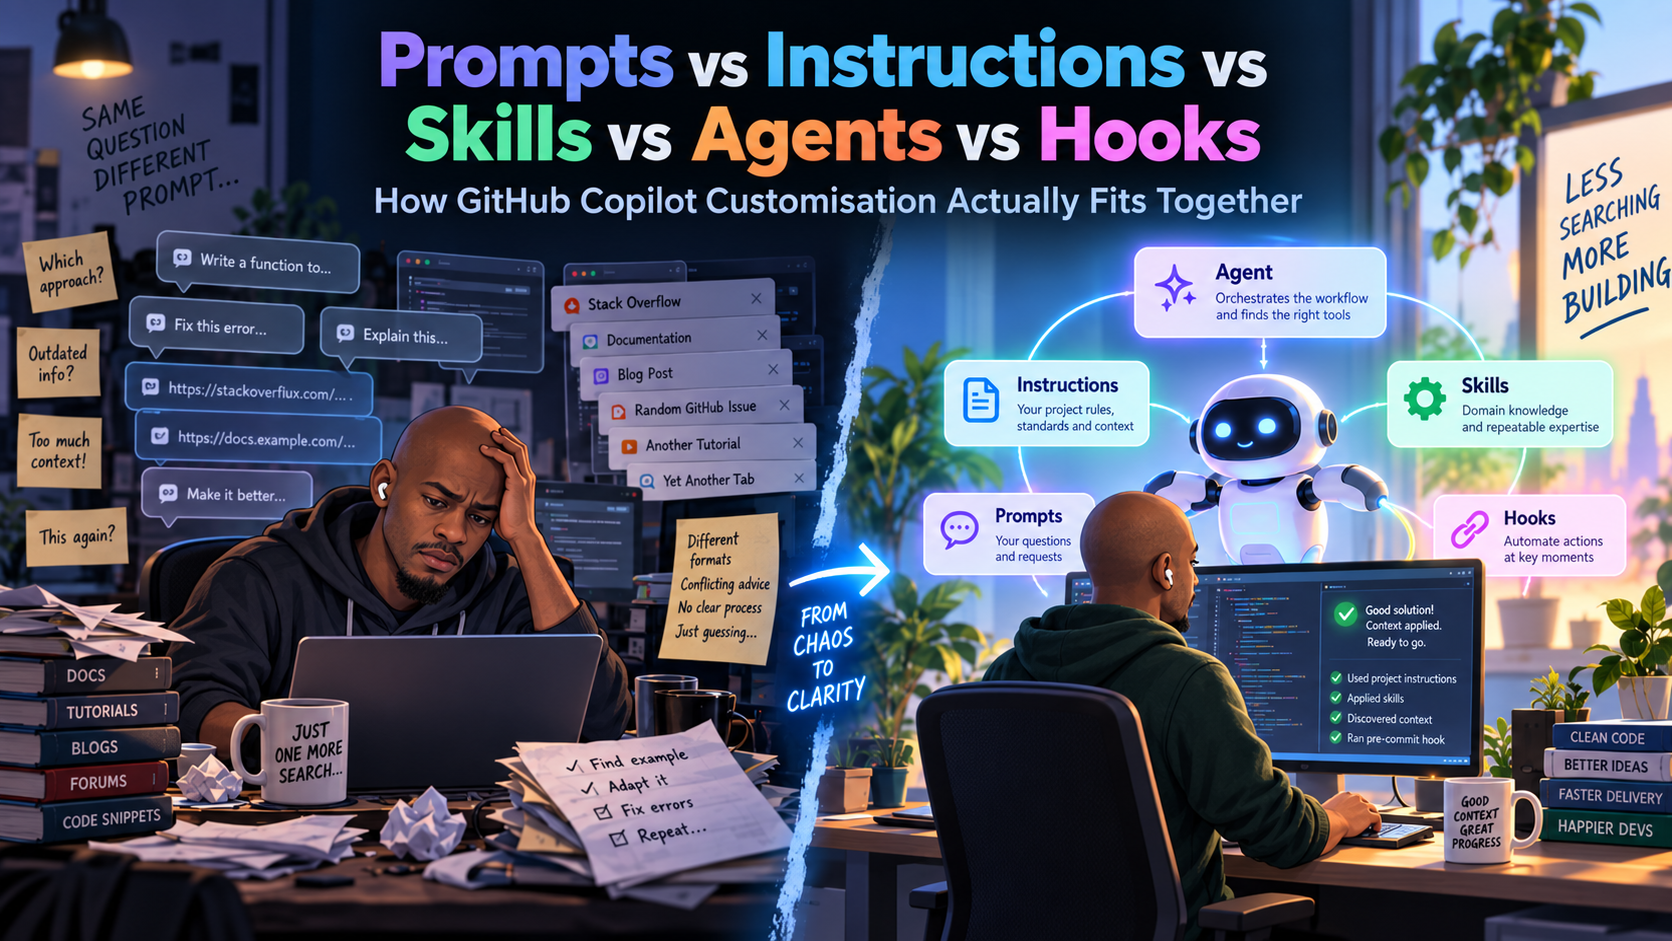
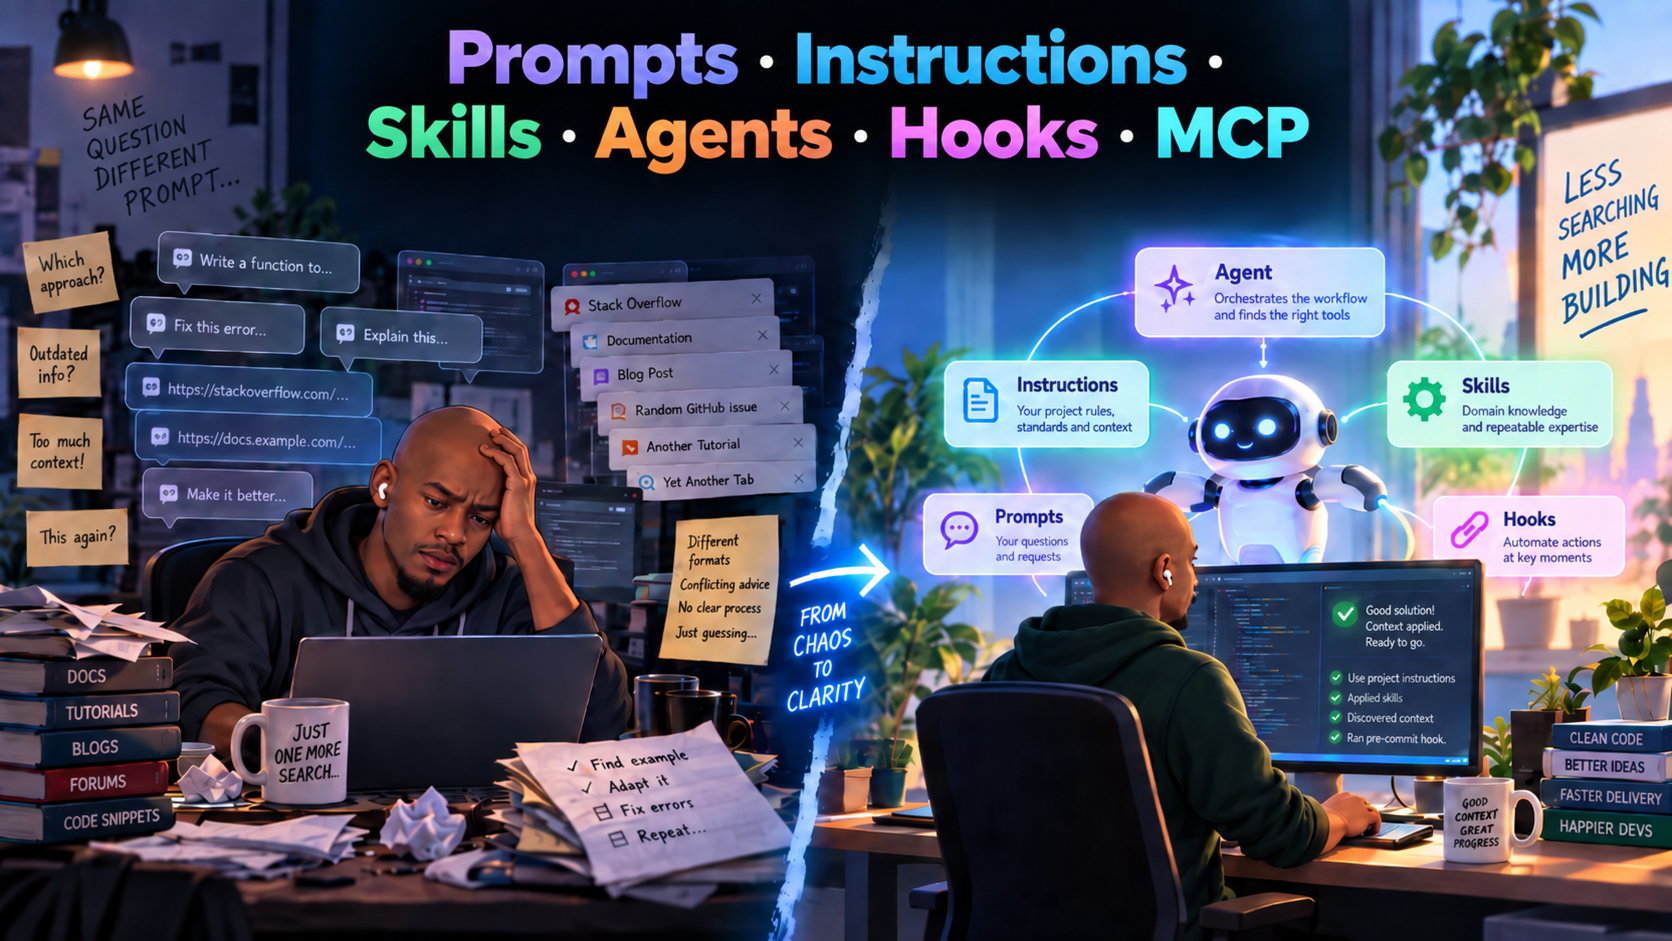
fix: update title and description for clarity in Copilot customization article

diff --git a/articles/copilot-instructions-vs-prompts-skills-vs-agents.md b/articles/copilot-instructions-vs-prompts-skills-vs-agents.md
@@ -1,6 +1,6 @@
 ---
-title: "Prompts vs Instructions vs Skills vs Agents vs Hooks"
-description: "How GitHub Copilot Customisation Actually Fits Together."
+title: "How GitHub Copilot Customisation Actually Fits Together"
+description: "Prompts, instructions, skills, agents, hooks, and MCP explained."
 date: 2026-09-20
 authors: [mpho]
 image: /img/articles/prompts-vs-instructions-vs-skills-vs-agents/hero.png
@@ -11,14 +11,12 @@ tags:
 hide_table_of_contents: false
 toc_min_heading_level: 2
 toc_max_heading_level: 2
+slug: github-copilot-customisation
 ---
 import Tabs from '@theme/Tabs';
 import TabItem from '@theme/TabItem'; 
 
-
-# Prompts vs Instructions vs Skills vs Agents vs Hooks
-
-![GitHub Copilot and GH-300](/img/articles/prompts-vs-instructions-vs-skills-vs-agents/hero.png)
+![GitHub Copilot Customisation](/img/articles/prompts-vs-instructions-vs-skills-vs-agents/hero.png)
 
 It’s Tuesday morning, 09:00.
 
@@ -41,41 +39,65 @@ Later that morning, you open another conversation to work on something else.
 - Again, you remind it how your team expects tests to be written.
 - Again, you remind on which architectural boundaries it needs to respect.
 
-At some point, you realise the problem. You are spending a surprising amount of time teaching Copilot how your engineering environment works before asking it to do any actual engineering. Some knowledge should already be available. Some behaviours should be reusable.
+At some point, you realise the problem. You are spending a surprising amount of time teaching Copilot how your engineering environment works before asking it to do any actual engineering. 
+
+- Some knowledge should already be available and automatic. 
+- Some behaviours should be reusable.
+- Some work should belong to belong to a specialised worker.
 
 And that is where prompting starts to feel insufficient.
 
-This is where GitHub Copilot customisation starts to become genuinely useful.
+That is where GitHub Copilot customisation starts to become genuinely useful.
+
+## A simple way to think about Copilot customisation
+
+The easiest way to understand the different features is not to start with their implementation.
+
+Start with the responsibility each one owns.
+
+- **Prompt = intent** — what do I want done right now?
+- **Instructions = constraints** — what rules should consistently apply?
+- **Skill = expertise** — how should this kind of work be done?
+- **Agent = responsibility** — who owns this workflow or role?
+- **Hook = automation** — what should happen automatically at a defined moment?
+- **MCP = external capability** — what systems, tools, or data does the workflow need access to?
+
+That distinction matters because these features are not interchangeable.
+
+A prompt should not become a dumping ground for every project rule.
+
+An instruction should not try to describe an entire workflow.
+
+A skill should not become a disguised agent.
+
+And an agent should not exist simply because a prompt became long.
+
+The real design question is:
+
+> **What is the responsibility, and where does that responsibility belong?**
 
 :::tip
 
 ### Quick decision framework
 
-Use this as a practical filter when deciding which Copilot customisation mechanism to reach for:
+Use the smallest mechanism that solves the problem.
 
-- **Prompt**: use when the guidance is one-off, task-specific, and meant for a single job.
-- **Instructions**: use when the rule should apply repeatedly without needing to be restated.
-- **Skill**: use when the work requires reusable expertise or a repeatable way of thinking about a type of task.
-- **Agent**: use when responsibility, workflow ownership, or a clear sequence of steps matters.
-- **Hook**: use when the behaviour should happen automatically at a workflow boundary or event.
-- **MCP**: use when Copilot needs access to external tools, data, or systems that are not already in context.
-
-A useful shorthand is:
-- Prompt = “what should happen right now?”
-- Instructions = “what rules should always apply?”
-- Skill = “how should this kind of work be done?”
-- Agent = “who owns this workflow?”
-- Hook = “what should happen automatically when an event occurs?”
-- MCP = “what external systems can this worker access?”
-
-If the answer is “this should always apply,” use instructions. If the answer is “this is a reusable capability,” use a skill. If the answer is “this is a role with a workflow,” use an agent. If the answer is “this needs external context,” use MCP.
+- If the guidance is one-off and task-specific, use a **prompt**.
+- If it should apply repeatedly without being restated, use **instructions**.
+- If it represents reusable specialist expertise, use a **skill**.
+- If a worker owns a role or workflow, use an **agent**.
+- If something should happen automatically at an event or boundary, use a **hook**.
+- If the workflow needs access to an external system, use **MCP**.
 
 :::
 
 ## Prompts: What do I want done right now?
 
-### What is it?
-Prompts are the task-level instructions you give Copilot for a specific job. In practice, they are often reusable prompt files stored in the workspace as `.prompt.md` files and invoked when needed.
+A prompt expresses immediate intent. It tells Copilot what you want to do in the current situation.
+
+Prompts express the task you want Copilot to perform for a specific job. They can be written directly in a conversation or saved as reusable prompt files, typically using the .prompt.md format, and invoked when needed.
+
+The important distinction is that a prompt represents what you want done now, even when the prompt itself is reusable.
 
 ### What problem do prompts solve?
 
@@ -83,7 +105,7 @@ Prompts solve the problem of telling Copilot what you want it to do right now.
 Even though Copilot already has some surrounding context — such as the current active file, selected code, and chat history — it still needs an explicit goal.
 
 Instead of repeatedly writing:
-> Review this API for authentication, authorization, input validation, rate limiting, logging...
+> Review this API for authentication, authorisation, input validation, rate limiting, logging...
 
 you can encode that workflow once as something like:
 
@@ -91,24 +113,29 @@ you can encode that workflow once as something like:
 
 and reuse it.
 
-### When to use it?
+### When should you use prompts?
 
 As a rule of thumb, use a prompt file when the task is repeatable, intentional, and only needed in the moment.
 
-Good candidates include:
-- generating unit tests according to a standard structure
-- creating an implementation plan
-- reviewing an API for security concerns
-- generating documentation
+:::tip
 
-### When not to use a prompt file?
+Good candidates include:
+- Generating unit tests according to a standard structure.
+- Creating an implementation plan.
+- Reviewing an API for security concerns.
+- Generating documentation.
+
+:::
+
+
+### When should you NOT use prompts?
 
 If something should apply all the time, it probably belongs in **instructions**, not a prompt.
 
 For example: 
 > Use xUnit for all .NET unit tests.
 
-That's a repository convention. You shouldn't have to remember to solve it.
+That's a repository convention. You shouldn't have to remember to restate it in every prompt.
 
 :::danger
 
@@ -121,7 +148,7 @@ Another **mistake** is turning a prompt into an agent simply because the prompt 
 
 ## Instructions: Always apply these rules
 
-### What is it?
+### What are instructions?
 Instructions are Markdown files containing persistent guidance and rules. In GitHub Copilot, they are typically stored in the repository and are automatically provided when relevant to a request.
 
 GitHub Copilot supports several kinds of instructions:
@@ -141,14 +168,18 @@ Without instructions, developers repeatedly put the same context into prompts.
 As a default, use custom instructions when you want Copilot to behave consistently without repeating yourself in every chat session.
 This keeps the context stable and makes the rules easier to apply consistently across work.
 
-Good candidates include:
+:::tip
+
+__Good candidates include:__
 - naming or coding conventions
 - testing frameworks and testing expectations
 - patterns the team uses or avoids
 - repository architecture and important boundaries
 - language/framework conventions
 
-### When not to use instructions
+:::
+
+### When should you NOT use instructions?
 - You only need a task or operation once.
 - The workflow is complex and multi-step.
 - The task requires specialized tooling or context that should not be treated as a universal rule.
@@ -167,7 +198,7 @@ The **second mistake** is writing vague principles instead of actionable constra
   <TabItem value="effective" label="✅ Effective" default>
 
   Do not log authentication tokens <br/>
-  New HTTP integrations must use the existing type HttpClient pattern <br/>
+  New HTTP integrations must use the existing typed HttpClient pattern <br/>
   Use xUnit for new unit tests <br/>
 
   </TabItem>
@@ -207,19 +238,21 @@ For example, instead of telling Copilot how to assess a PR, you could have separ
 - architecture impact
 - security review
 
-### When to use skills?
+### When should you use skills?
 
 As a rule of thumb, use skills when the work is repeatable, bounded, and requires recognisable expertise.
 The best candidates tend to be specialised reasoning modules.
 
-Examples include:
+:::tip
+Good candidates include:
 - Requirements completeness assessment
 - Test adequacy assessment
 - Architecture impact analysis
 - Backward-compatibility analysis
 - Migration-risk analysis
+:::
 
-### When not to use skills?
+### When should you NOT use skills?
 
 A skill is not necessary when:
 - The task is trivial
@@ -243,15 +276,17 @@ The biggest mistake is turning every repeated prompt into a skill.
 
 ### What are agents?
 
-Agents are the responsibility-boundary primitive. They are role-based AI workers configured around a specific workflow, goal, or decision boundary rather than a single prompt.
+A useful way to think about agents is as responsibility boundaries: role-based AI workers configured around a particular goal or workflow.
 
-They are useful when you want to separate concerns such as planning, implementation, review, or migration work, and they can hand off to another agent once one phase is complete.
+They are useful when you want to separate concerns such as planning, implementation, review, or migration work.
+
+In workflows that support agent handoffs, one specialised agent can pass work to another when its phase is complete.
 
 ### What problem do agents solve?
 
 Agents reduce context mixing. Instead of asking one general worker to act as planner, implementer, reviewer, and tester all at once, you give the work a narrower role and a clearer ownership boundary.
 
-### When to use agents?
+### When should you use agents?
 
 A good default is to use an agent when the workflow is specialised, repeated, or involves a clear sequence of responsibilities.
 
@@ -261,7 +296,7 @@ Agents are valuable because they establish responsibility boundaries, not becaus
 
 :::
 
-### When not to use agents?
+### When should you NOT use agents?
 
 A dedicated agent is usually unnecessary when: 
 - You need reusable expertise knowledge. That's probably a skill.
@@ -270,6 +305,7 @@ A dedicated agent is usually unnecessary when:
 - The default Copilot agent already does a good job.
 
 :::warning
+
 ### Common mistakes
 
 The biggest mistake is treating an agent as a fancy wrapper around a prompt. A real agent is not just a longer set of instructions; it is a role with a defined job, context, and workflow boundary.
@@ -293,11 +329,11 @@ Good candidates for hooks are :
 - Enforcement
 - Auditing
 
-### When to use hooks?
+### When should you use hooks?
 
 A practical rule is to use hooks when a rule or workflow should happen automatically for every relevant event, not just when someone asks for it manually.
 
-### When not to use hooks?
+### When should you NOT use hooks?
 
 Avoid hooks when the action is optional or requires judgement.
 
@@ -345,8 +381,8 @@ MCP is often useful when Copilot needs to interact with an external system or re
 
 ### Common mistakes
 
-The biggest mistake is giving the MCP integration all permissions.
-The MCP design should follow least privilege.
+The **biggest mistake** is giving the MCP integration all permissions.
+The MCP design should follow **least privilege**.
 
 :::
 
@@ -533,13 +569,20 @@ The strength of the system comes from **combining them rather than trying to for
 
 ## Final takeaway 
 
-The repeated question in all of this is not just “what is it?” but “what is its scope, and who owns the responsibility?”
+The goal of Copilot customisation is not to use more features. It is to design better boundaries.
 
-- Prompts answer the immediate task.
-- Instructions define rules that should apply repeatedly across a project or workflow.
-- Skills package reusable expertise.
-- Agents own a workflow or role.
-- Hooks fire automatically at defined moments.
-- MCP exposes external systems and data.
+The important question in all of this is not: 
 
-That distinction is the key to choosing the right primitive. If the requirement is short-lived and specific, use a prompt. If it should apply broadly and automatically, use instructions. If it is repeatable expertise, use a skill. If it is a workflow with responsibility boundaries, use an agent. If it needs to trigger automatically, use a hook. If it needs access to systems outside the current context, use MCP.
+> “What is it?” or " What feature should I use?"
+
+But: 
+
+> **“What is its scope, and who owns the responsibility, and where does it belong?”**
+
+Once those boundaries are clear, the customisation features stop looking like a collection of overlapping options.
+
+They start looking like parts of a system.
+
+Prompts express intent. Instructions define constraints. Skills package expertise. Agents own responsibility. Hooks automate events. MCP provides external capability.
+
+And that is where GitHub Copilot customisation becomes much more useful.
